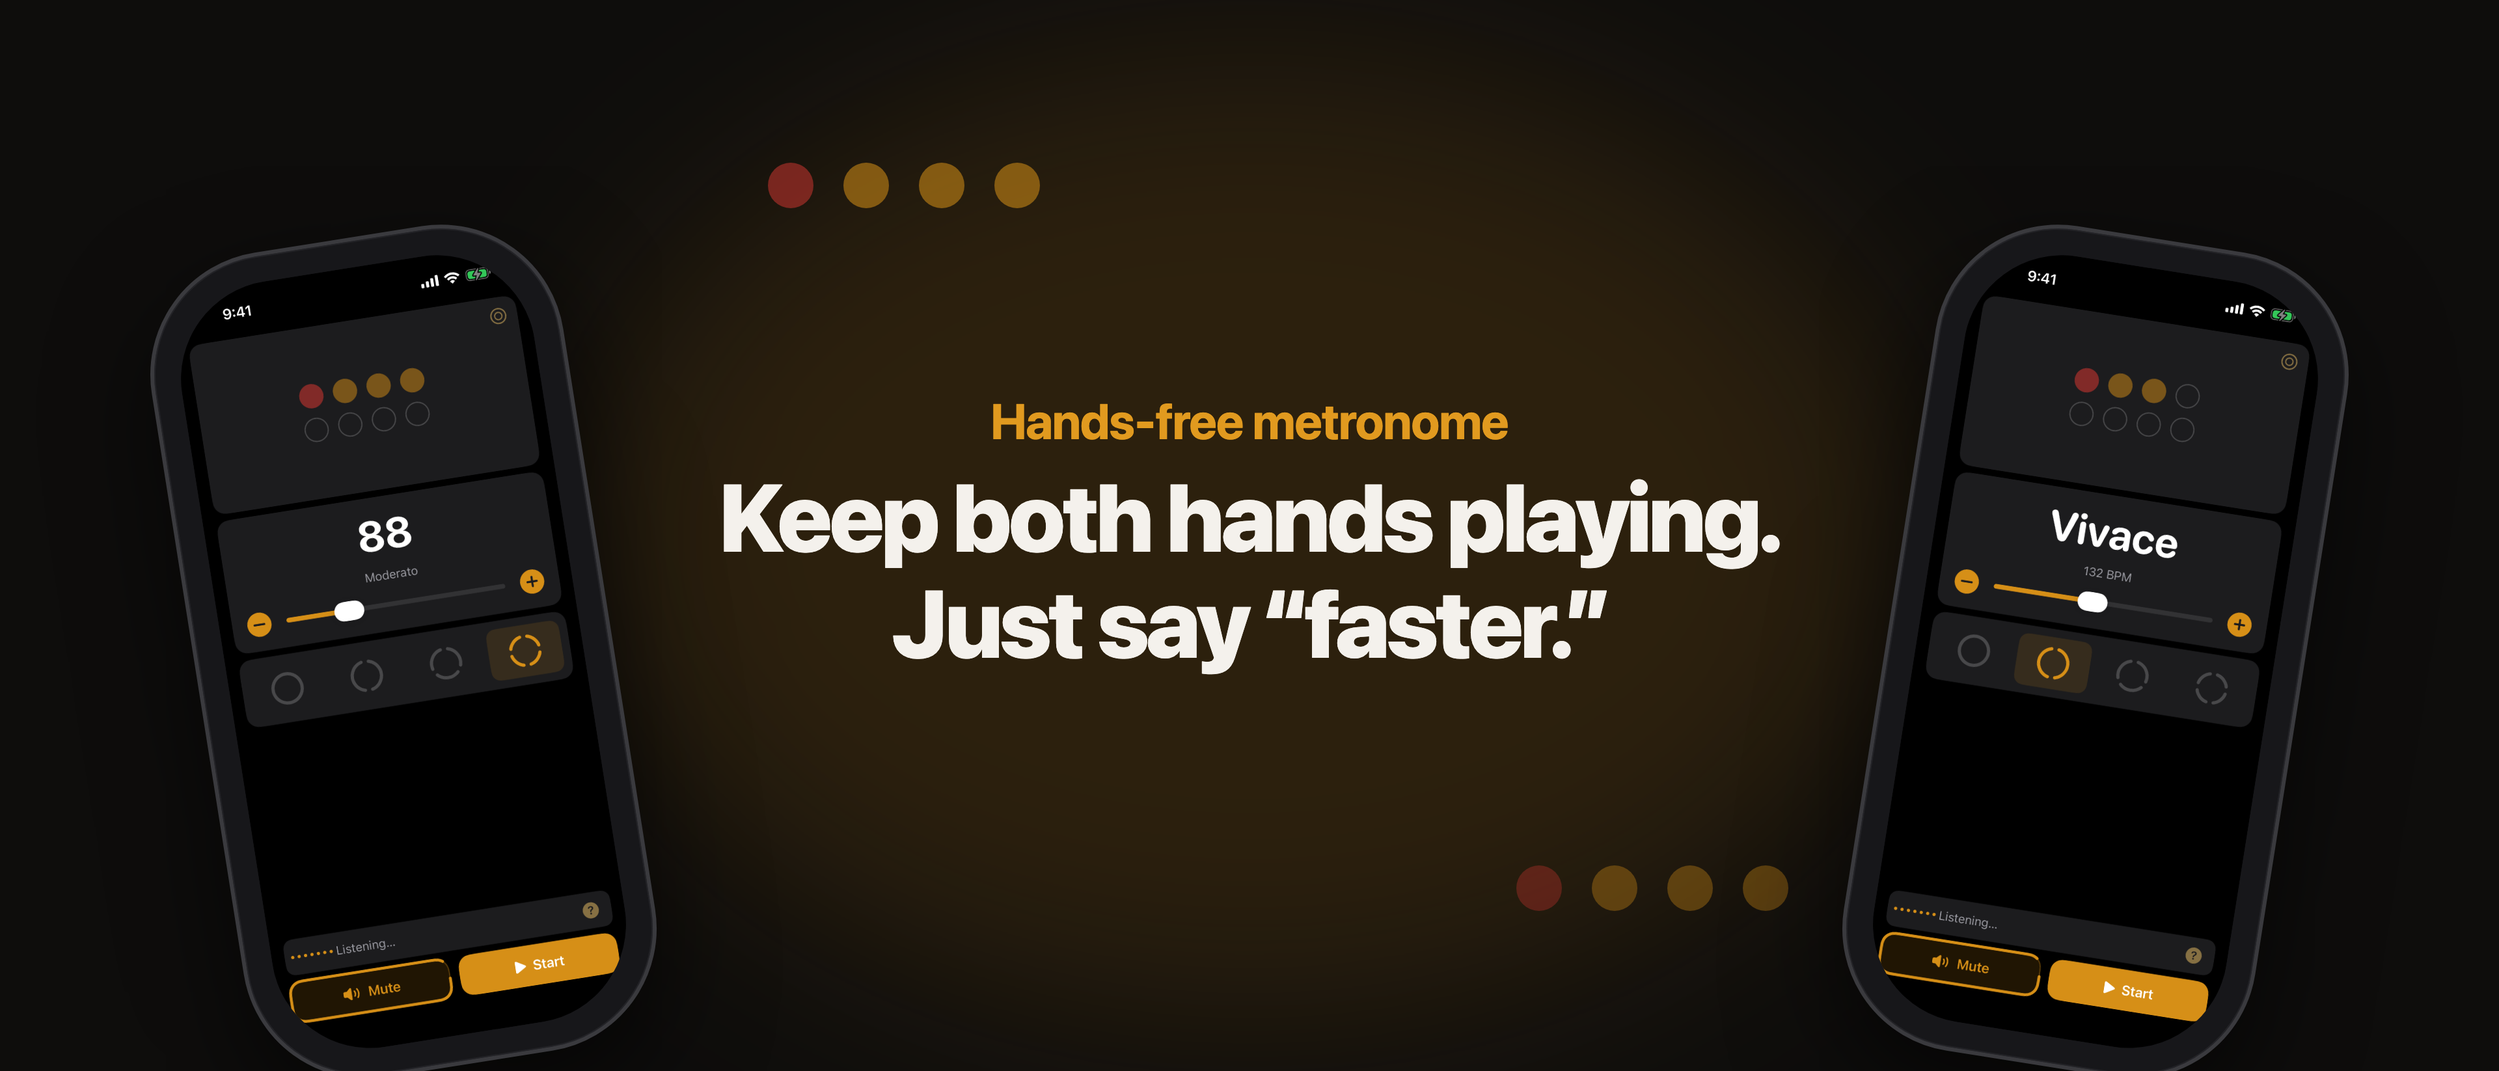
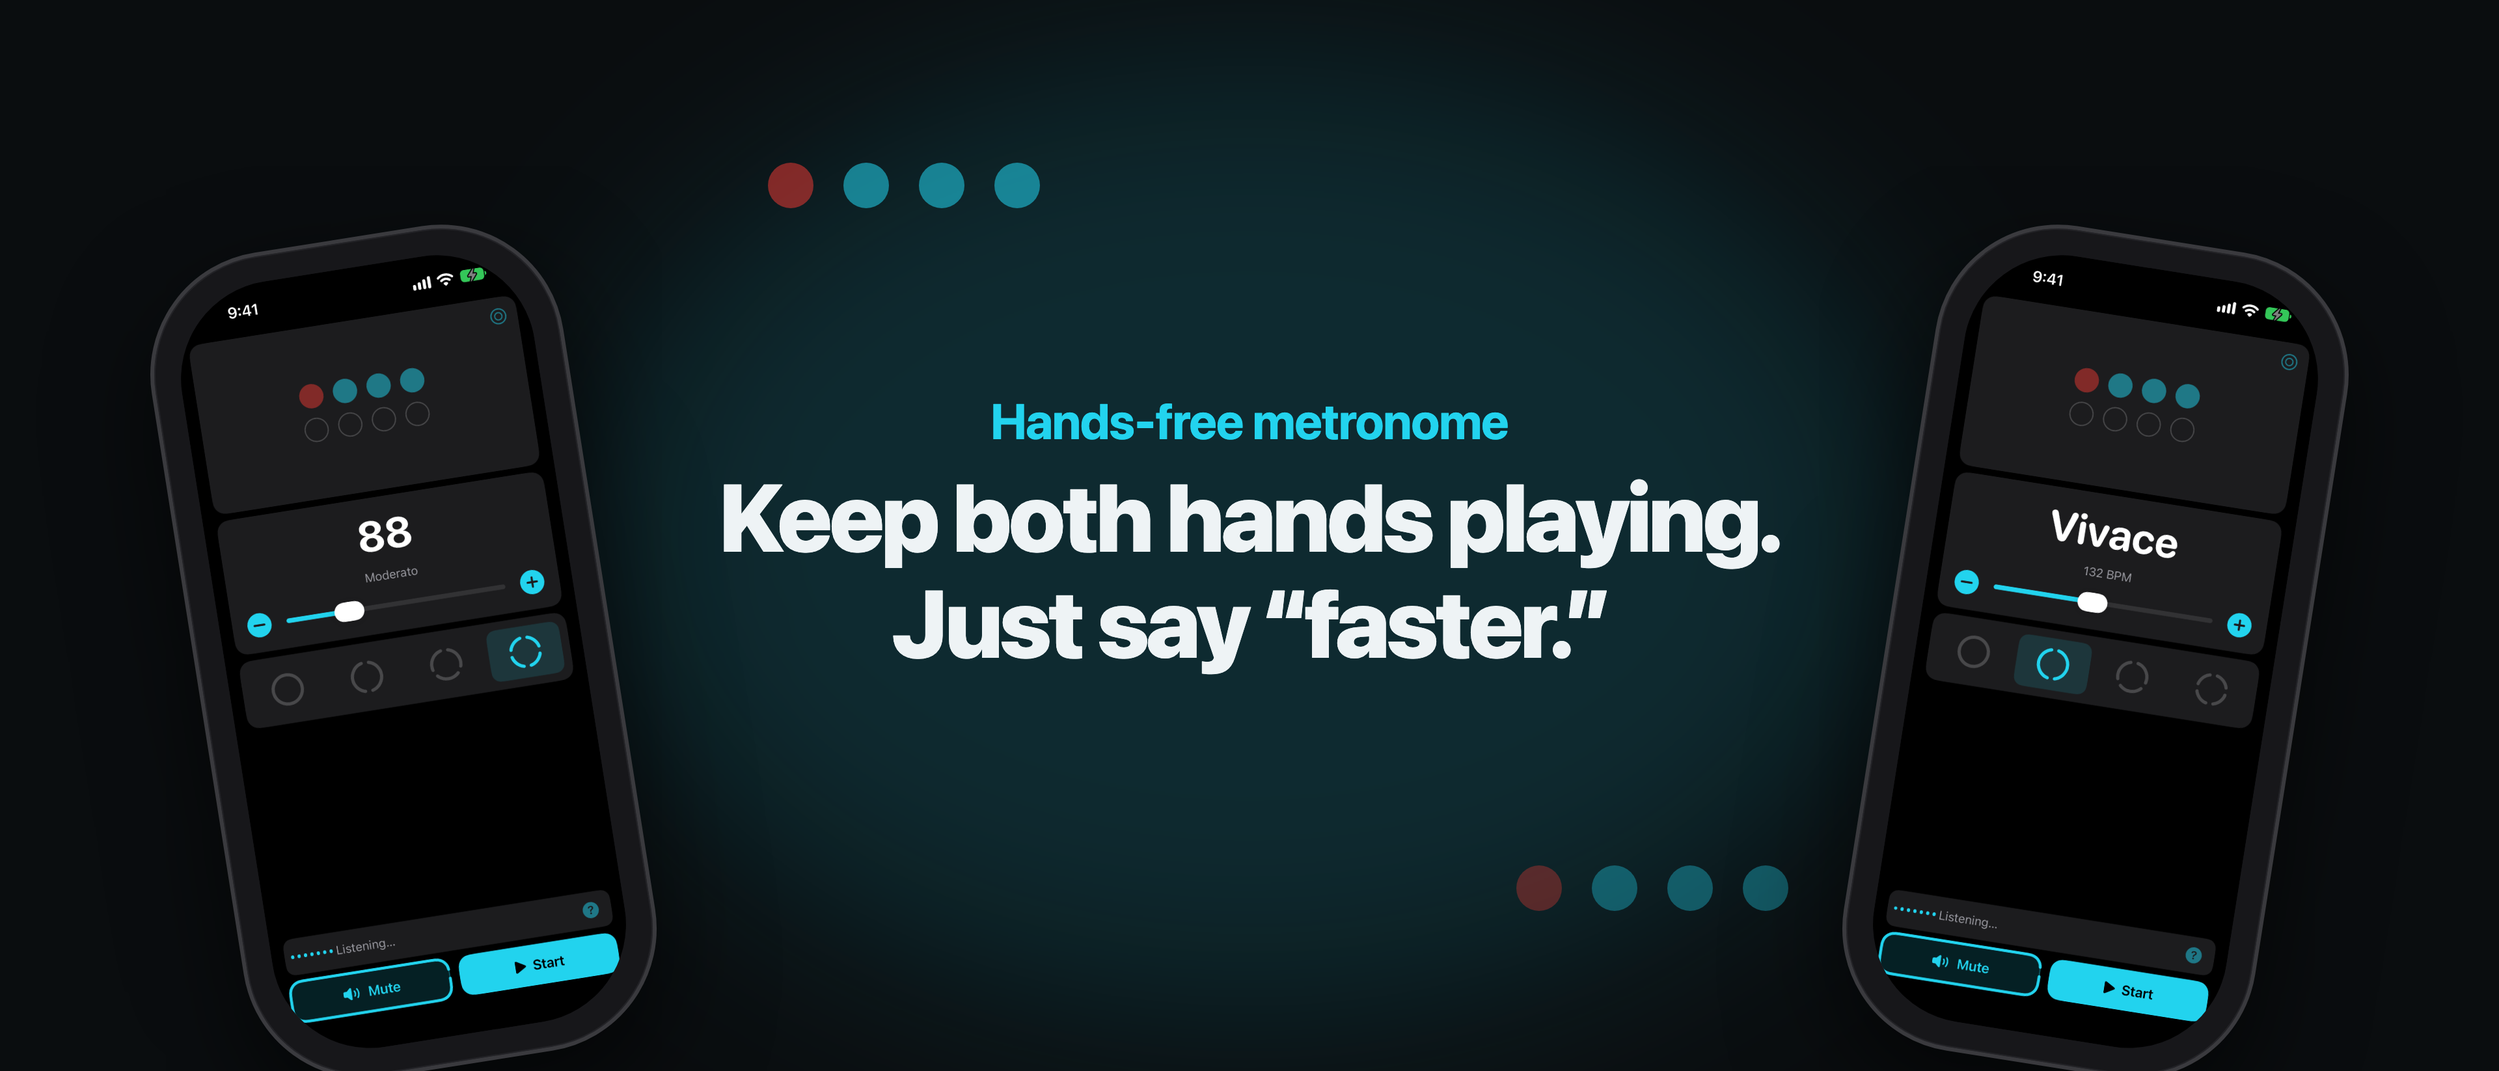
feat(디자인): 아이콘 · 스토어 그림 · 웹을 앱의 청록으로, 1.0.6 릴리즈노트
- 앱 아이콘: 메트로놈 모양은 그대로, 바탕을 청록(cue) 그라데이션으로, 진자에 은은한 빛.
  scripts/make_app_icon.py 로 다시 만들 수 있다 (알파 없음).
- 원본 스크린샷 7장 재촬영 → 마케팅 스크린샷(ko · en-US 5장)과 헤더 · 검색 결과 재생성.
  그림 스크립트의 바탕 · 글자 · 장식 색을 청록 팔레트로.
- DEBUG 전용 -shot <장면> 실행 인자: 원본 캡처 장면(playing · orbit · count · voice ·
  accents · main · number)을 앱이 스스로 만든다. 다음 릴리즈 재촬영용.
- 웹(docs/style.css) 강조색 · 첫 박 · 바탕을 같은 팔레트로.
- RELEASE_NOTES 1.0.6 을 이번 변경(악기 신호 · 큰 클릭 · 템포 변경 소리 · 햅틱 · 새 색) 으로.

diff --git a/docs/style.css b/docs/style.css
@@ -1,4 +1,5 @@
-:root { --brass:#cda03e; --bg:#100e0c; --card:#1b1714; --text:#f1ece4; --muted:#a89f92; }
+/* 앱의 색과 같다 (HandsFreeMetronome/Palette.swift): 키 색 청록 cue + 첫 박 빨강. */
+:root { --cue:#22D3EE; --bg:#0a0d0f; --card:#141a1d; --text:#eef3f5; --muted:#93a0a6; --line:#1f282c; }
 * { box-sizing: border-box; }
 body { margin:0; background:var(--bg); color:var(--text);
        font-family:-apple-system,BlinkMacSystemFont,"Segoe UI",Roboto,"Apple SD Gothic Neo","Noto Sans KR",sans-serif;
@@ -6,30 +7,30 @@ body { margin:0; background:var(--bg); color:var(--text);
 .wrap { max-width:720px; margin:0 auto; padding:24px 22px 80px; }
 nav.langs { display:flex; justify-content:flex-end; gap:14px; font-size:14px; margin-bottom:18px; }
 nav.langs a { color:var(--muted); text-decoration:none; }
-nav.langs a[aria-current] { color:var(--brass); font-weight:600; }
+nav.langs a[aria-current] { color:var(--cue); font-weight:600; }
 header { text-align:center; margin-bottom:36px; }
 .dots { font-size:0; margin-bottom:14px; }
 .dot { display:inline-block; width:16px; height:16px; border-radius:50%;
-       background:var(--brass); margin:0 5px; }
-.dot.first { background:#db5450; }
+       background:var(--cue); margin:0 5px; }
+.dot.first { background:#E63833; }
 h1 { font-size:30px; margin:6px 0 4px; }
 .policy h1 { font-size:28px; margin-bottom:4px; }
-h2 { color:var(--brass); font-size:19px; margin:34px 0 10px; }
+h2 { color:var(--cue); font-size:19px; margin:34px 0 10px; }
 .policy h2 { margin:30px 0 8px; }
 .policy { line-height:1.65; }
 .sub { color:var(--muted); }
 .card { background:var(--card); border-radius:16px; padding:18px 20px; margin-top:14px; }
 table { width:100%; border-collapse:collapse; }
-td { padding:7px 0; border-bottom:1px solid #2a241f; vertical-align:top; }
-td.cmd { color:var(--brass); font-weight:600; white-space:nowrap; padding-right:16px; }
-a { color:var(--brass); }
+td { padding:7px 0; border-bottom:1px solid var(--line); vertical-align:top; }
+td.cmd { color:var(--cue); font-weight:600; white-space:nowrap; padding-right:16px; }
+a { color:var(--cue); }
 footer { margin-top:48px; text-align:center; color:var(--muted); font-size:14px; }
-code { background:#2a241f; padding:1px 6px; border-radius:5px; }
-.sale { background:#2b1e12; border:1px solid var(--brass); border-radius:12px;
+code { background:var(--line); padding:1px 6px; border-radius:5px; }
+.sale { background:#0c2229; border:1px solid var(--cue); border-radius:12px;
         padding:12px 16px; margin:18px 0 0; text-align:center; font-size:15px; }
-.sale strong { color:var(--brass); }
-.store-btn { display:inline-block; margin-top:16px; background:var(--brass);
-        color:#100e0c; font-weight:700; text-decoration:none; border-radius:12px;
+.sale strong { color:var(--cue); }
+.store-btn { display:inline-block; margin-top:16px; background:var(--cue);
+        color:#0a0d0f; font-weight:700; text-decoration:none; border-radius:12px;
         padding:12px 26px; font-size:16px; }
 .store-btn:hover { filter:brightness(1.1); }
 .price-note { color:var(--muted); font-size:13px; margin-top:8px; }

diff --git a/HandsFreeMetronome/ContentView.swift b/HandsFreeMetronome/ContentView.swift
@@ -189,6 +189,12 @@ struct ContentView: View {
                     }
                 }
             }
+            // -shot <scene> sets up an App Store screenshot by itself, so the raw
+            // captures (docs/screenshots/raw) can be retaken the same way every
+            // release. Appearance is set from outside with `simctl ui appearance`.
+            if let i = uitestArgs.firstIndex(of: "-shot"), i + 1 < uitestArgs.count {
+                prepareScreenshot(uitestArgs[i + 1])
+            }
             // -uitest-close stands in for saying "close" a few seconds after launch,
             // so tip dismissal by voice can be checked on the simulator.
             if uitestArgs.contains("-uitest-close") {
@@ -1801,6 +1807,41 @@ struct ContentView: View {
         }
         haptic.prepare()
     }
+
+    #if DEBUG
+    private func prepareScreenshot(_ scene: String) {
+        Tips.hideAllTipsForTesting()
+        hintDismissed = true
+        metronome.setBeatsPerMeasure(4)
+        metronome.setTempo(120)
+        metronome.setSubdivision(1)
+        tempoAsNumber = false
+        vizModeRaw = BeatVizMode.bounce.rawValue
+        switch scene {
+        case "orbit": vizModeRaw = BeatVizMode.orbit.rawValue
+        case "count": vizModeRaw = BeatVizMode.sweep.rawValue
+        case "accents": metronome.setSubdivision(4)
+        case "main":
+            metronome.setTempo(132)
+            metronome.setSubdivision(2)
+        case "number":
+            metronome.setTempo(88)
+            metronome.setSubdivision(4)
+            tempoAsNumber = true
+        default: break
+        }
+        DispatchQueue.main.asyncAfter(deadline: .now() + 1.5) {
+            switch scene {
+            case "playing", "orbit", "count": metronome.start()
+            case "voice": showHelp()
+            case "accents":
+                metronome.setLevelsForScreenshot([2, 1, 2, 1,  2, 0, 1, 1,  2, 1, 2, 1,  2, 0, 1, 2])
+                showAccents = true
+            default: break
+            }
+        }
+    }
+    #endif
 
     private func openTuner() {
         guard requirePro(.tuner) else { return }

diff --git a/HandsFreeMetronome/MetronomeEngine.swift b/HandsFreeMetronome/MetronomeEngine.swift
@@ -427,6 +427,14 @@ final class MetronomeEngine: ObservableObject {
         syncPlaybackLevels()
     }
 
+    #if DEBUG
+    /// Screenshot scenes (-shot accents) set a whole measure at once.
+    func setLevelsForScreenshot(_ levels: [Int]) {
+        guard levels.count == currentAccentLevels.count else { return }
+        storeCurrentLevels(levels)
+    }
+    #endif
+
     private func storeCurrentLevels(_ levels: [Int]) {
         let sub = max(1, subdivision)
         let beats = beatsPerMeasure

diff --git a/scripts/make_app_icon.py b/scripts/make_app_icon.py
@@ -1,0 +1,83 @@
+#!/usr/bin/env python3
+"""앱 아이콘 생성: SVG → 헤드리스 Chrome → AppIcon.png (1024×1024, 알파 없음).
+
+사용법: python3 scripts/make_app_icon.py
+
+색은 앱의 색과 같다 (HandsFreeMetronome/Palette.swift):
+  바탕   청록 cue — 위는 다크 모드 값 #22D3EE, 아래는 라이트 모드 값 #0A7EA4 로 내려간다
+  추     첫 박 빨강 beatRed #E63833
+  진자   곁눈에도 잡히는 신호처럼 은은하게 빛나는 크림색
+모양은 처음 아이콘(태엽 메트로놈)을 그대로 따른다 — 바뀐 것은 색뿐이다.
+"""
+import pathlib, subprocess, tempfile
+
+ROOT = pathlib.Path(__file__).resolve().parent.parent
+OUT = ROOT / "HandsFreeMetronome" / "Assets.xcassets" / "AppIcon.appiconset" / "AppIcon.png"
+CHROME = "/Applications/Google Chrome.app/Contents/MacOS/Google Chrome"
+
+SVG = """<svg xmlns="http://www.w3.org/2000/svg" width="1024" height="1024" viewBox="0 0 1024 1024">
+  <defs>
+    <linearGradient id="bg" x1="0" y1="0" x2="0" y2="1">
+      <stop offset="0" stop-color="#3FDDF3"/>
+      <stop offset="0.55" stop-color="#16A9CB"/>
+      <stop offset="1" stop-color="#0A7EA4"/>
+    </linearGradient>
+    <radialGradient id="halo" cx="0.5" cy="0.5" r="0.5">
+      <stop offset="0" stop-color="#22D3EE" stop-opacity="0.55"/>
+      <stop offset="1" stop-color="#22D3EE" stop-opacity="0"/>
+    </radialGradient>
+    <filter id="shadow" x="-30%" y="-30%" width="160%" height="160%">
+      <feDropShadow dx="0" dy="18" stdDeviation="22" flood-color="#04303F" flood-opacity="0.55"/>
+    </filter>
+    <filter id="glow" x="-50%" y="-50%" width="200%" height="200%">
+      <feGaussianBlur stdDeviation="9" result="b"/>
+      <feMerge><feMergeNode in="b"/><feMergeNode in="SourceGraphic"/></feMerge>
+    </filter>
+  </defs>
+  <rect width="1024" height="1024" fill="url(#bg)"/>
+  <g filter="url(#shadow)">
+    <circle cx="512" cy="208" r="18" fill="#0E3A47"/>
+    <rect x="432" y="224" width="160" height="40" rx="14" fill="#1E2428"/>
+    <polygon points="422,252 602,252 724,866 300,866" fill="#1A1F23"/>
+  </g>
+  <polygon points="446,284 578,284 672,834 352,834" fill="#0B0F12"/>
+  <ellipse cx="545" cy="560" rx="150" ry="260" fill="url(#halo)" opacity="0.6"/>
+  <g filter="url(#glow)">
+    <line x1="512" y1="774" x2="590" y2="370" stroke="#F3F7F8" stroke-width="16" stroke-linecap="round"/>
+  </g>
+  <rect x="512" y="508" width="92" height="60" rx="11" fill="#E63833" transform="rotate(10.9 558 538)"/>
+  <circle cx="512" cy="774" r="22" fill="#22D3EE" filter="url(#glow)"/>
+</svg>
+"""
+
+
+def main():
+    with tempfile.TemporaryDirectory() as tmp:
+        tmp = pathlib.Path(tmp)
+        page = tmp / "icon.html"
+        page.write_text("<!doctype html><html><head><style>html,body{margin:0;width:1024px;height:1024px;"
+                        "overflow:hidden;background:#0A7EA4}</style></head><body>" + SVG + "</body></html>")
+        shot = tmp / "icon.png"
+        # Chrome 은 그림을 쓴 뒤에도 가끔 끝나지 않는다 — 시간이 지나면 끊고, 그림이 생겼는지로 판단한다.
+        for attempt in range(4):
+            try:
+                subprocess.run([CHROME, "--headless=new", f"--screenshot={shot}", "--window-size=1024,1024",
+                                "--hide-scrollbars", "--force-device-scale-factor=1", "--disable-gpu",
+                                "--no-first-run", f"--user-data-dir={tmp / f'prof-{attempt}'}", page.as_uri()],
+                               capture_output=True, timeout=40)
+            except subprocess.TimeoutExpired:
+                pass
+            if shot.exists() and shot.stat().st_size > 0:
+                break
+        else:
+            raise SystemExit("아이콘 렌더 실패")
+        # App Store 는 알파 채널이 있는 아이콘을 거절한다 — JPEG 를 거쳐 알파를 확실히 없앤다.
+        jpg = tmp / "icon.jpg"
+        subprocess.run(["sips", "-s", "format", "jpeg", "-s", "formatOptions", "100", str(shot), "--out", str(jpg)],
+                       check=True, capture_output=True)
+        subprocess.run(["sips", "-s", "format", "png", str(jpg), "--out", str(OUT)], check=True, capture_output=True)
+    print("rendered", OUT)
+
+
+if __name__ == "__main__":
+    main()

diff --git a/scripts/make_creative_assets.py b/scripts/make_creative_assets.py
@@ -47,18 +47,18 @@ HEADER = {
     "en": ("Hands-free metronome", "Keep both hands playing.<br>Just say “faster.”"),
 }
 
-# 바탕 · 글자색은 앱의 색이다: 다크 모드 화면(검정) + 메트로놈 놋쇠색(brass, ContentView 의
-# Color(red: 0.84, green: 0.56, blue: 0.09)) + 첫 박 빨강(beatRed).
+# 바탕 · 글자색은 앱의 색이다: 다크 모드 화면(검정) + 키 색 청록(cue #22D3EE, Palette.swift 의
+# 다크 모드 값) + 첫 박 빨강(beatRed).
 BASE_CSS = """
 * { margin:0; padding:0; box-sizing:border-box; }
 html,body { width:%(W)dpx; height:%(H)dpx; overflow:hidden; }
-body { background:#0e0d0c; position:relative;
+body { background:#0a0d0f; position:relative;
   font-family:-apple-system, "SF Pro Display", "Apple SD Gothic Neo", sans-serif; }
 .glow { position:absolute; border-radius:50%%; filter:blur(160px); pointer-events:none; }
 .text { position:absolute; display:flex; flex-direction:column; justify-content:center; }
-.eyebrow { font-weight:700; color:#E19A1F; letter-spacing:-0.01em; line-height:1.15; }
-.headline { font-weight:800; color:#f4f1ec; letter-spacing:-0.03em; line-height:1.12; text-wrap:balance; }
-.sub { font-weight:500; color:#9a958e; letter-spacing:-0.01em; line-height:1.35; text-wrap:balance; }
+.eyebrow { font-weight:700; color:#22D3EE; letter-spacing:-0.01em; line-height:1.15; }
+.headline { font-weight:800; color:#eef3f5; letter-spacing:-0.03em; line-height:1.12; text-wrap:balance; }
+.sub { font-weight:500; color:#93a0a6; letter-spacing:-0.01em; line-height:1.35; text-wrap:balance; }
 /* 한국어는 낱말 중간에서 끊지 않는다. */
 :lang(ko) .headline, :lang(ko) .sub, :lang(ko) .eyebrow { word-break:keep-all; }
 .phone { position:absolute; background:#17171a; border:6px solid #3a3a3e; padding:40px; border-radius:190px;
@@ -102,10 +102,10 @@ def phone(img, left, top, width, rotate=0):
 
 
 def beat_dots(x, y, size, gap, n, opacity):
-    """앱의 박자 점(첫 박 빨강 + 놋쇠색)을 장식으로. 안전 영역 바깥에만 둔다."""
+    """앱의 박자 점(첫 박 빨강 + 청록 cue)을 장식으로. 안전 영역 바깥에만 둔다."""
     out = []
     for i in range(n):
-        color = "#C9352F" if i == 0 else "#D68F17"
+        color = "#E63833" if i == 0 else "#22D3EE"
         out.append(f'<div class="dot" style="left:{x + i * (size + gap)}px;top:{y}px;width:{size}px;'
                    f'height:{size}px;background:{color};opacity:{opacity}"></div>')
     return "".join(out)
@@ -123,8 +123,8 @@ def search_html(lang):
     ph_w = 1040
     ph_left = l + col + int(sw * 0.04)
     return f"""
-<div class="glow" style="left:{ph_left - 300}px;top:500px;width:1700px;height:1700px;background:rgba(214,143,23,.20)"></div>
-<div class="glow" style="left:{l - 700}px;top:{t - 500}px;width:1400px;height:1000px;background:rgba(214,143,23,.07)"></div>
+<div class="glow" style="left:{ph_left - 300}px;top:500px;width:1700px;height:1700px;background:rgba(34,211,238,.20)"></div>
+<div class="glow" style="left:{l - 700}px;top:{t - 500}px;width:1400px;height:1000px;background:rgba(34,211,238,.07)"></div>
 {phone(shot(lang, "01-main.png"), ph_left, t - 360, ph_w, 0)}
 <div class="text" style="left:{l}px;top:{t}px;width:{col}px;height:{sh}px">
   <div class="eyebrow" style="font-size:96px">{eyebrow}</div>
@@ -139,7 +139,7 @@ def header_html(lang):
     sw, sh = r - l, b - t
     dots = (beat_dots(1180, 250, 70, 46, 4, .55) + beat_dots(2330, 1330, 70, 46, 4, .35))
     return f"""
-<div class="glow" style="left:{l - 200}px;top:{t - 400}px;width:{sw + 400}px;height:{sh + 800}px;background:rgba(214,143,23,.15)"></div>
+<div class="glow" style="left:{l - 200}px;top:{t - 400}px;width:{sw + 400}px;height:{sh + 800}px;background:rgba(34,211,238,.15)"></div>
 {dots}
 {phone(shot(lang, "02-number.png"), 300, 360, 640, -9)}
 {phone(shot(lang, "01-main.png"), 2900, 360, 640, 9)}

diff --git a/scripts/make_marketing_screenshots.py b/scripts/make_marketing_screenshots.py
@@ -6,7 +6,7 @@
 원본   docs/screenshots/raw/en/0N-….png         시뮬레이터 캡처 (앱 화면은 영어 한 벌)
 제출본 docs/screenshots/marketing/<로케일>/0N-….png   1242×2688, 이 폴더를 DeployBar 가 올린다
 
-바탕·글자색은 제품 페이지 헤더(make_creative_assets.py)와 같다: 검정 바탕 + 놋쇠색(brass).
+바탕·글자색은 제품 페이지 헤더(make_creative_assets.py)와 같다: 검정 바탕 + 앱의 키 색 청록(cue, HandsFreeMetronome/Palette.swift).
 """
 import subprocess, sys, pathlib
 
@@ -38,12 +38,12 @@ SHOTS = {
 BASE_CSS = f"""
 * {{ margin:0; padding:0; box-sizing:border-box; }}
 html,body {{ width:{W}px; height:{H}px; overflow:hidden; }}
-body {{ background:#0e0d0c; position:relative;
+body {{ background:#0a0d0f; position:relative;
   font-family:-apple-system, "SF Pro Display", "Apple SD Gothic Neo", sans-serif; }}
 .glow {{ position:absolute; width:1200px; height:1200px; border-radius:50%; filter:blur(200px);
-  background:rgba(225,154,31,.28); }}
-.headline {{ font-size:104px; font-weight:800; color:#f4f1ec; letter-spacing:-3px; line-height:1.14; }}
-.sub {{ font-size:50px; font-weight:500; color:#a49f97; letter-spacing:-1px; line-height:1.3; }}
+  background:rgba(34,211,238,.22); }}
+.headline {{ font-size:104px; font-weight:800; color:#eef3f5; letter-spacing:-3px; line-height:1.14; }}
+.sub {{ font-size:50px; font-weight:500; color:#9aa6ac; letter-spacing:-1px; line-height:1.3; }}
 :lang(ko) .headline, :lang(ko) .sub {{ word-break:keep-all; }}
 .phone {{ position:absolute; background:#17171a; border-radius:112px; border:4px solid #3a3a3e; padding:24px;
   box-shadow: 0 60px 140px rgba(0,0,0,.6); }}

diff --git a/RELEASE_NOTES.md b/RELEASE_NOTES.md
@@ -4,15 +4,19 @@
 
 ### 앱스토어 (한국어)
 
-도움말에서 지원 페이지와 개인정보 안내를 엽니다.
-문의 메일 주소를 하나로 정리했습니다.
-앱이 더 안정적으로 동작하도록 다듬었습니다.
+악기로 짧은 음을 연주해 시작하고 멈출 수 있어요
+클릭 소리가 더 커져 합주 중에도 잘 들려요
+재생 중에 템포를 바꿔도 소리가 깨끗해요
+템포를 움직이면 손끝에 가벼운 진동이 와요
+새 색과 아이콘으로 박이 한눈에 들어와요
 
 ### App Store (English)
 
-Open support and privacy from Help.
-One contact address for every question.
-Polished for steadier everyday use.
+Start and stop by playing a short phrase
+A louder click that cuts through a band
+Clean sound when you change tempo mid play
+Feel a light tick as you drag the tempo
+A new color and icon that make every beat pop
 
 ## 1.0.5
 
